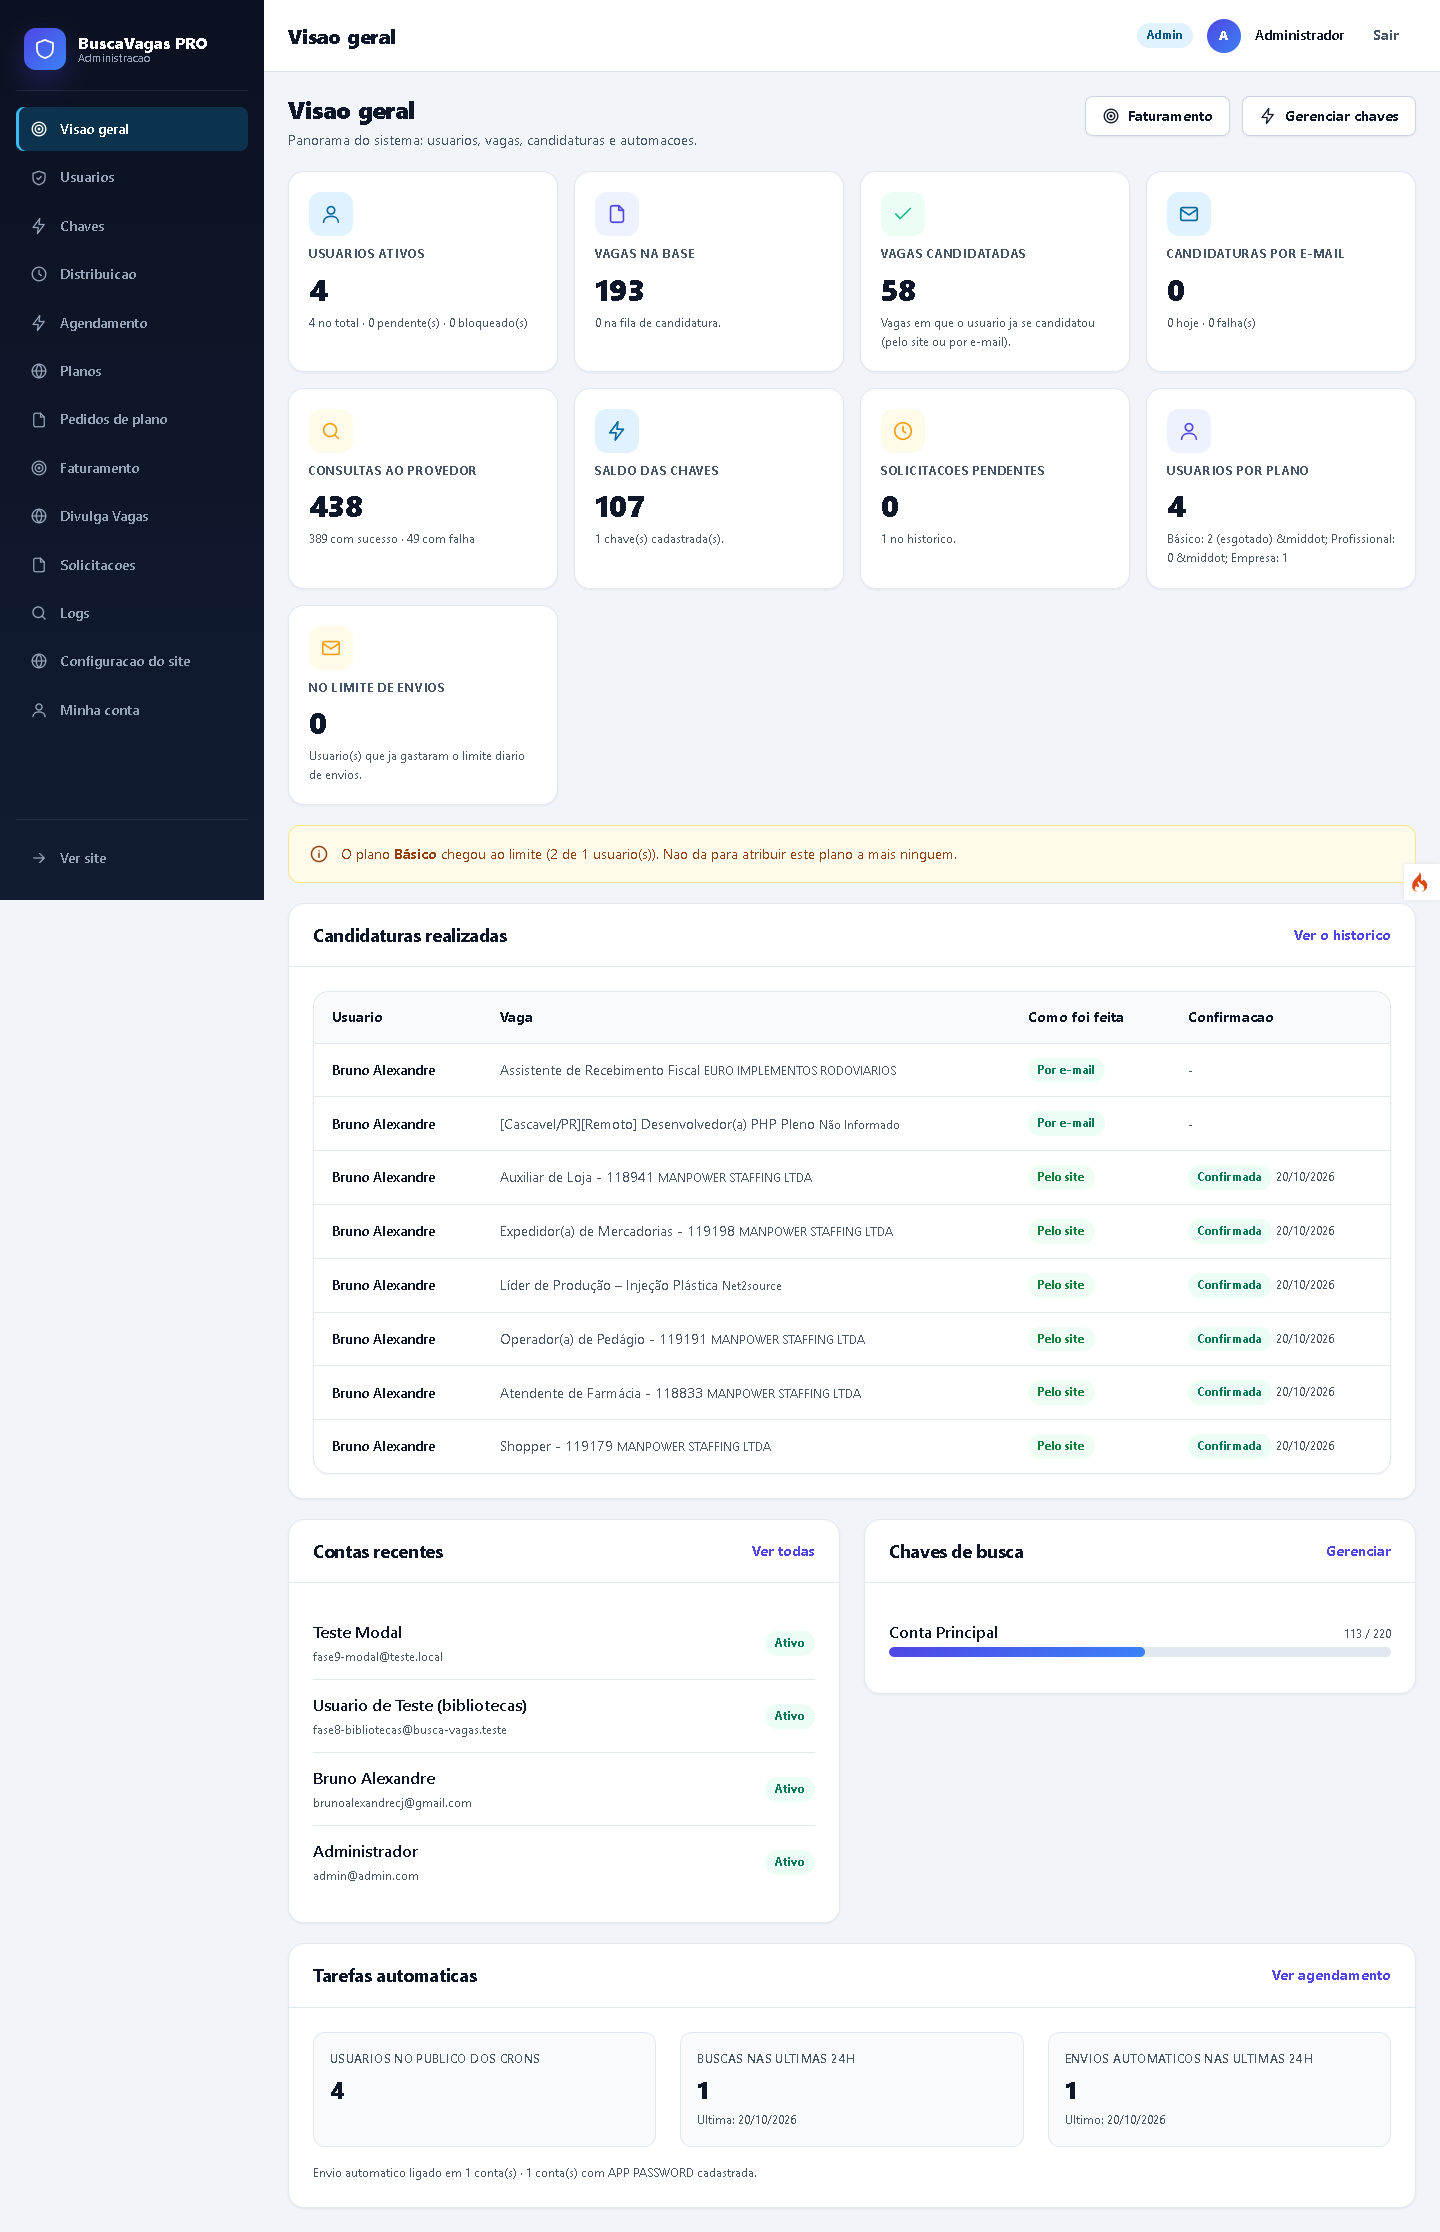
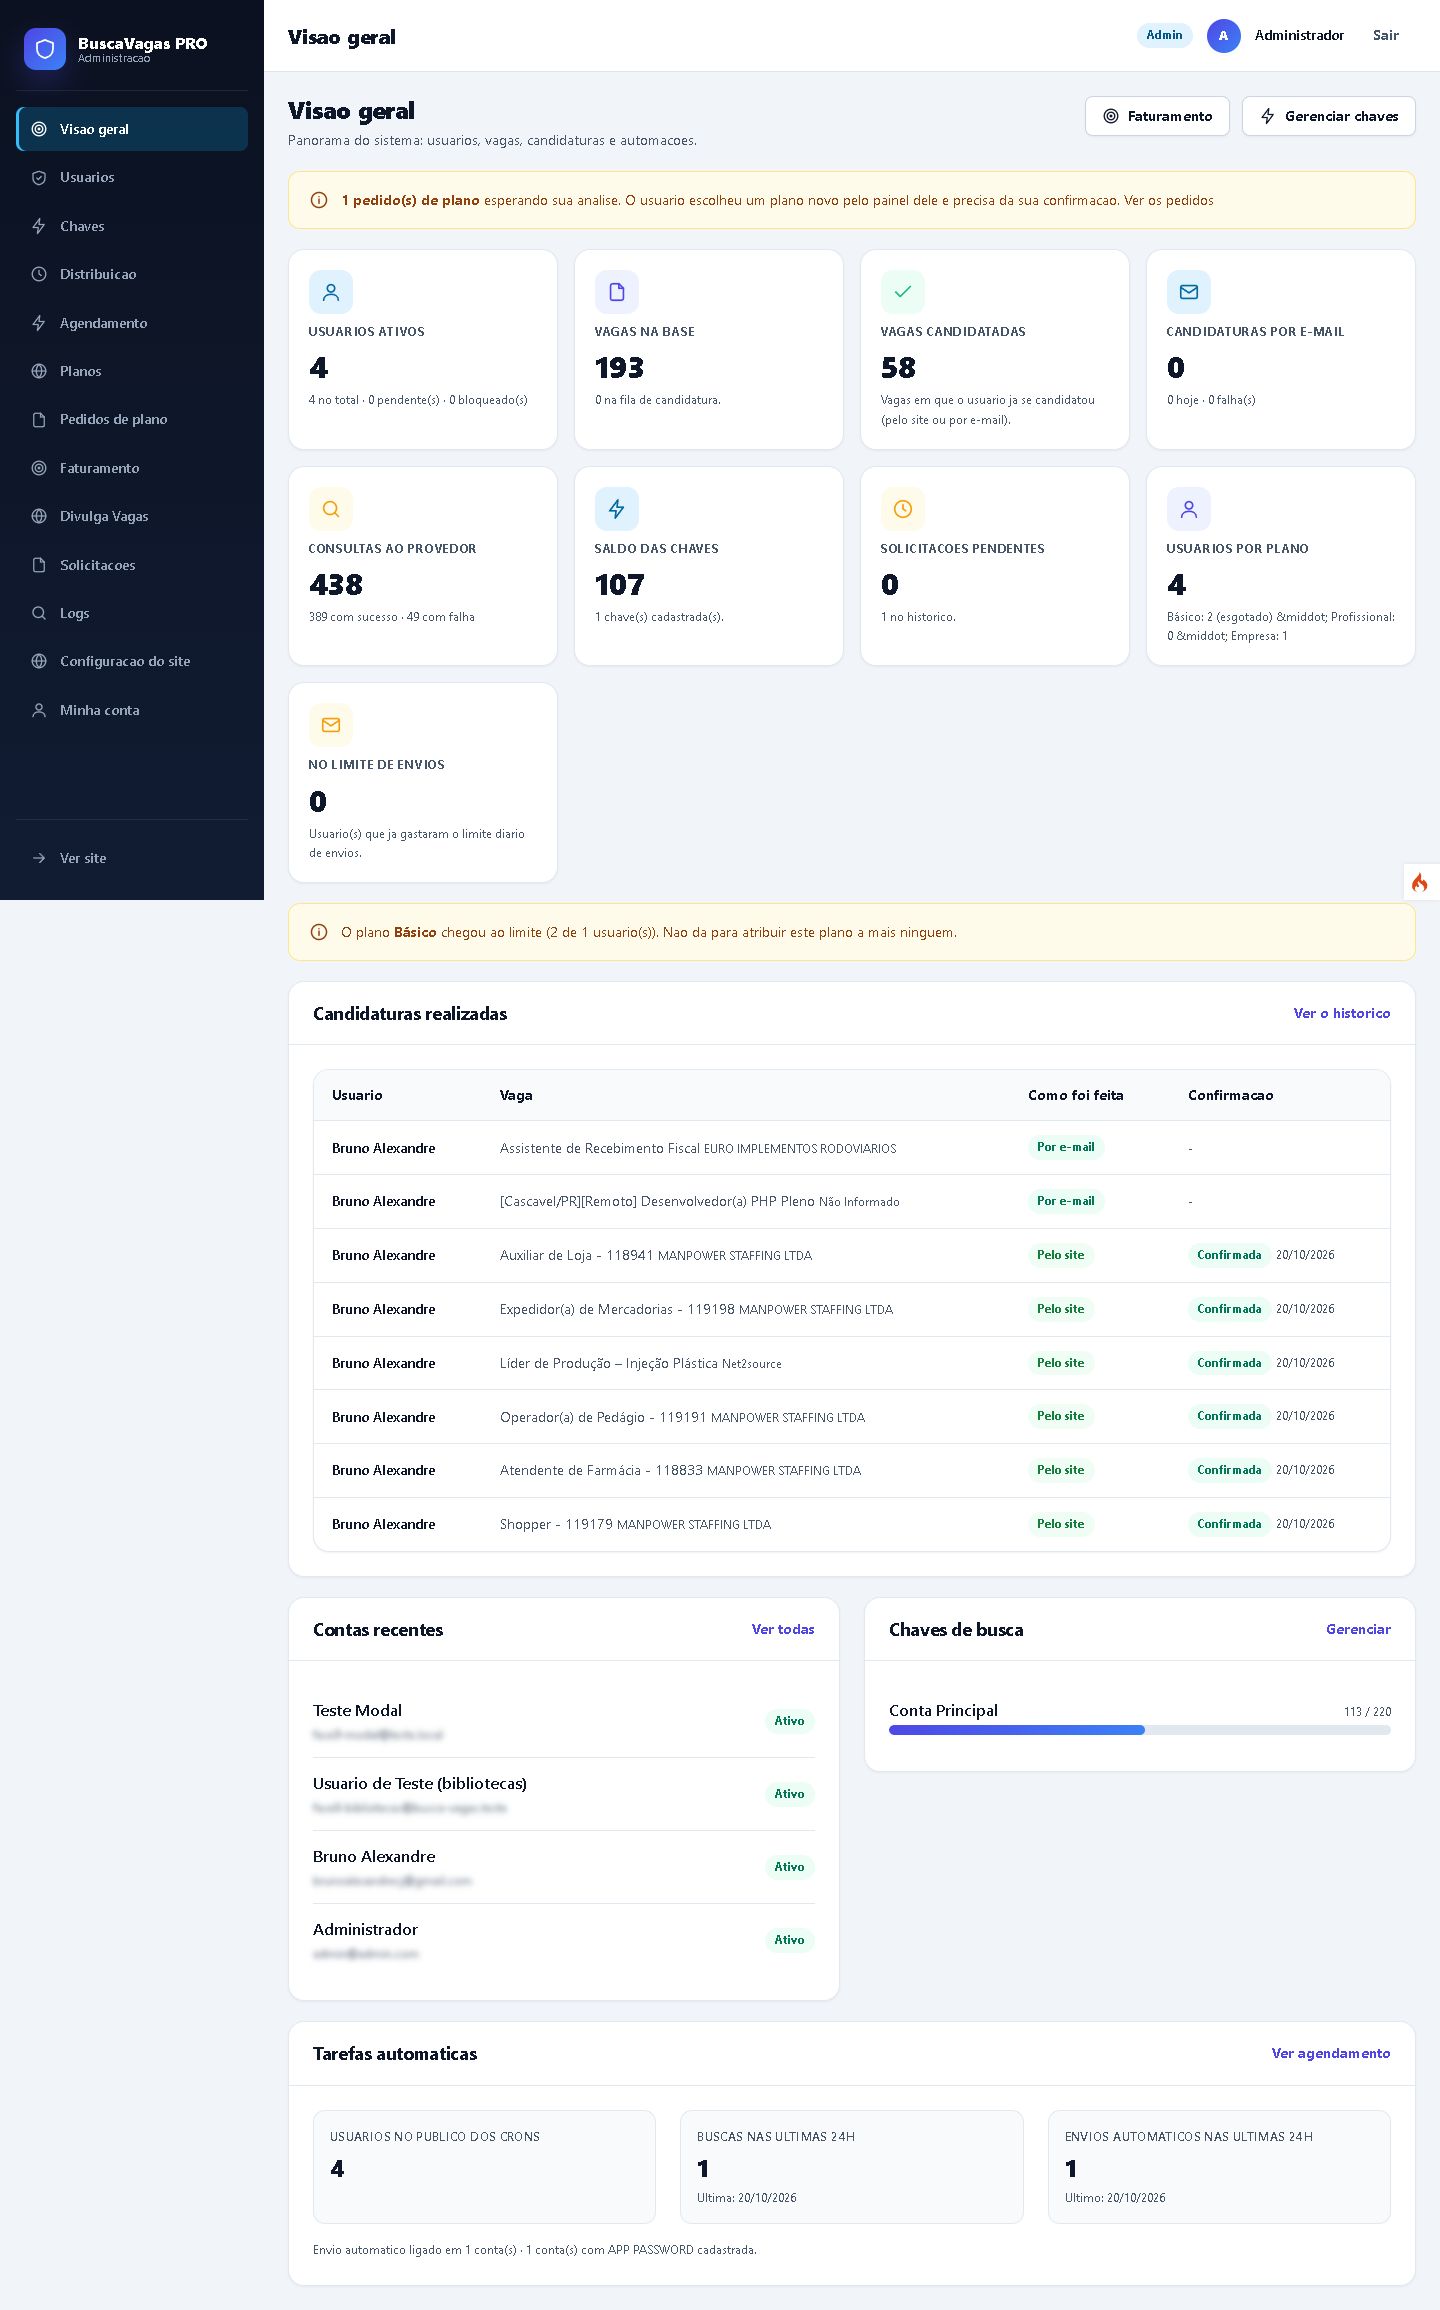
Seguranca: os e-mails das capturas vao borrados e o README explica onde vive o token do cron
- as capturas do ambiente nao mostram mais e-mail de conta real (o
  script de captura borra os e-mails antes de fotografar);
- a captura dos pedidos de plano mostra a fila com um pedido de
  demonstracao;
- o README diz onde o token global do cron fica (writable/cron_token.txt),
  que nunca e versionado e como regenera-lo.

diff --git a/tools/gerar-capturas.py b/tools/gerar-capturas.py
@@ -54,6 +54,21 @@ def entrar(page, credenciais):
     page.wait_for_load_state("networkidle")
 
 
+def mascarar_emails(page):
+    """Borra os e-mails que aparecem na tela (dado pessoal)."""
+    page.evaluate(
+        """
+        () => {
+            document.querySelectorAll('.item-lista__meta').forEach((el) => {
+                if (el.textContent.indexOf('@') !== -1) {
+                    el.style.filter = 'blur(3px)';
+                }
+            });
+        }
+        """
+    )
+
+
 def capturar(page, nome, url, tela_inteira=True, antes=None):
     """Abre a tela e salva a imagem."""
     page.goto(f"{BASE}{url}", wait_until="networkidle")
@@ -62,6 +77,9 @@ def capturar(page, nome, url, tela_inteira=True, antes=None):
     if antes is not None:
         antes(page)
         page.wait_for_timeout(700)
+
+    # Os e-mails das contas reais nao podem aparecer na imagem.
+    mascarar_emails(page)
 
     caminho = DESTINO / f"{nome}.png"
     page.screenshot(path=str(caminho), full_page=tela_inteira)
@@ -86,7 +104,6 @@ def main():
         print("-- o site publico --")
         capturar(page, "login", "/login")
         capturar(page, "cadastro", "/registro")
-
         print("-- o painel do usuario --")
         entrar(page, USUARIO)
         capturar(page, "painel-usuario", "/painel")
@@ -103,6 +120,26 @@ def main():
             tela_inteira=False,
             antes=lambda p: p.click("[data-modal-abrir='modal-plano']"),
         )
+
+        # Um pedido de plano de demonstracao (para a fila do admin nao
+        # aparecer vazia na captura).
+        page.goto(f"{BASE}/painel", wait_until="networkidle")
+        page.evaluate(
+            """
+            () => {
+                const form = document.createElement('form');
+                form.method = 'POST';
+                form.action = '/painel/plano/solicitar';
+                form.innerHTML =
+                    '<input name="plano_id" value="2">' +
+                    '<textarea name="mensagem">Quero o plano Profissional.</textarea>';
+                document.body.appendChild(form);
+                form.submit();
+            }
+            """
+        )
+        page.wait_for_load_state("networkidle")
+        page.wait_for_timeout(600)
 
         # ------------------------------------------------ o painel do admin
         print("-- o painel do administrador --")

diff --git a/README.md b/README.md
@@ -686,6 +686,13 @@ agendamento do SerpApi. Tambem existem por usuario:
 - `POST /cron/usuario/{id}/divulgavagas/buscar-vagas?token=...`
 - `POST /cron/usuario/{id}/divulgavagas/candidatar?token=...`
 
+> **Onde fica o token global:** ele e criado sozinho na primeira
+> execucao e vive em `writable/cron_token.txt` (fora da raiz web). Esse
+> arquivo **nunca e versionado** — o `.gitignore` protege a pasta. Voce
+> ve o valor em `/admin/cron` e pode gerar um novo a qualquer momento
+> (o botao "Regenerar token global"); depois disso, atualize a URL dos
+> jobs no cron-job.org.
+
 E os comandos Spark (o caminho oficial, sem HTTP):
 
 ```bash
